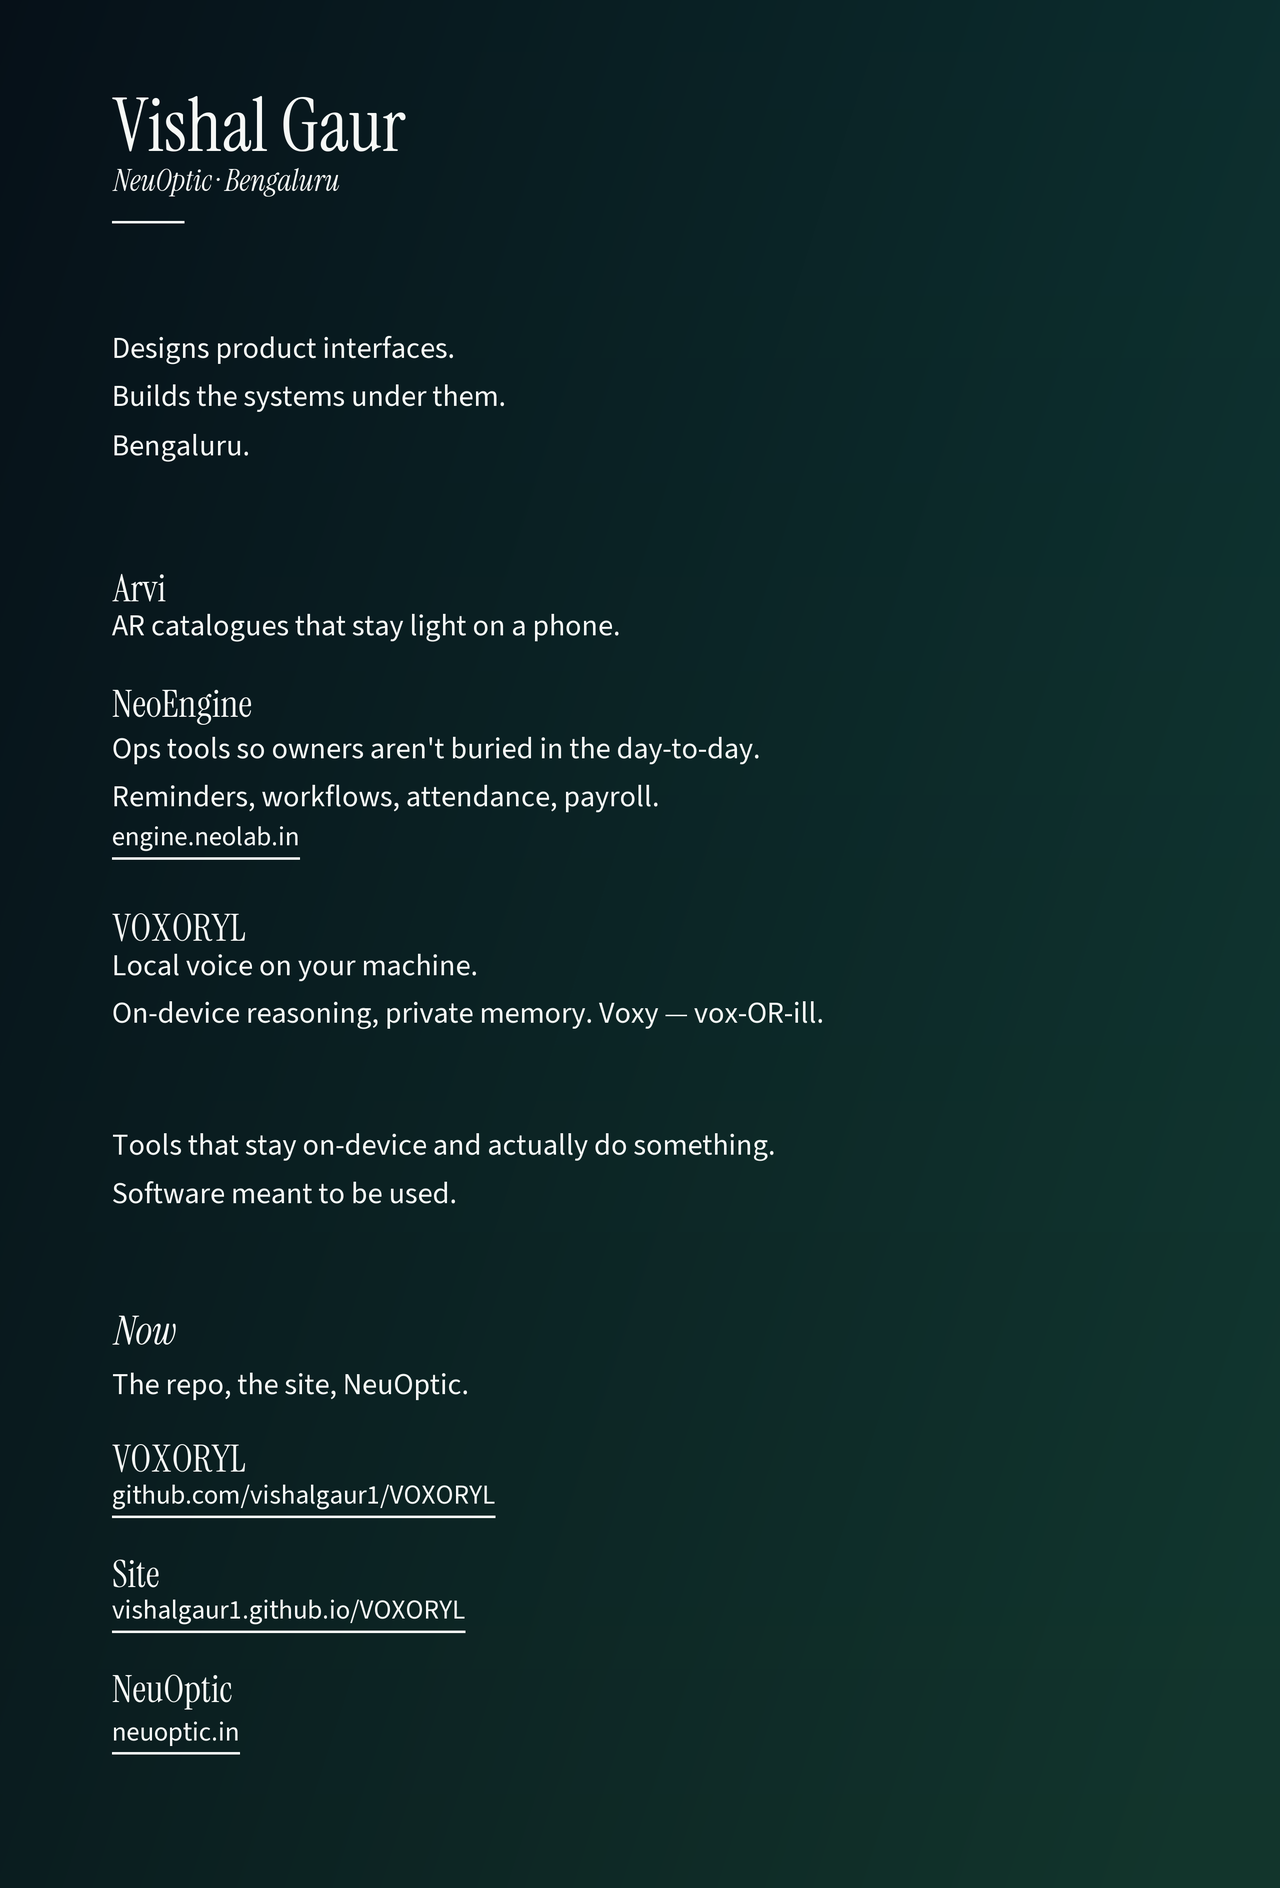
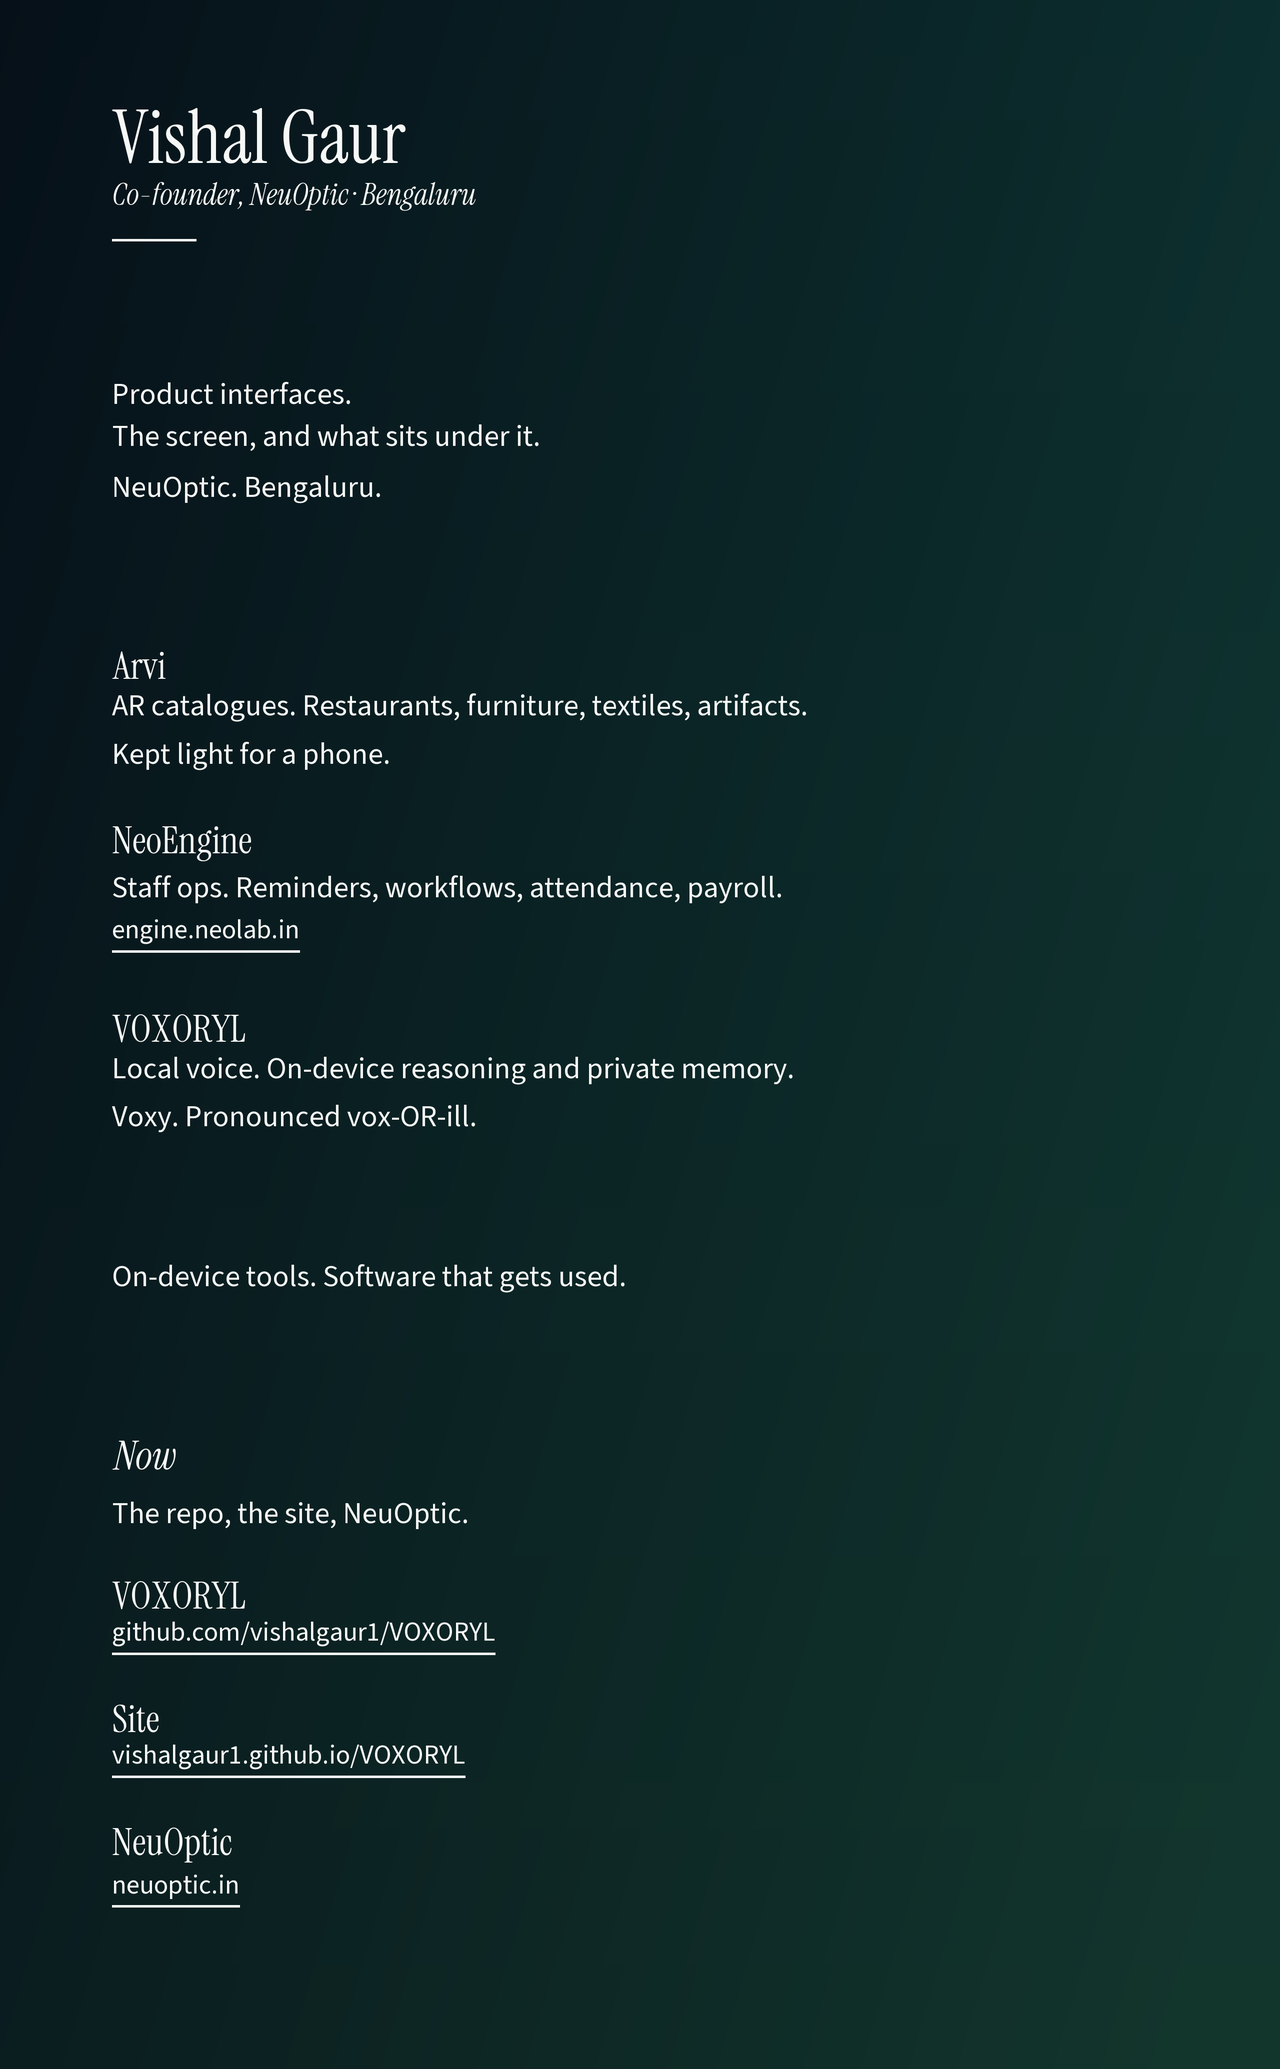
Retune profile bio to understated aura — cut flex lines, keep facts dry.

diff --git a/scripts/compose_profile_assets.py b/scripts/compose_profile_assets.py
@@ -158,24 +158,25 @@ def compose(metrics: ImageDraw.ImageDraw) -> Image.Image:
 
     paragraphs = {
         "who1": [
-            "Designs product interfaces.",
-            "Builds the systems under them.",
+            "Product interfaces.",
+            "The screen, and what sits under it.",
         ],
         "who2": [
-            "Bengaluru.",
+            "NeuOptic. Bengaluru.",
         ],
-        "arvi": "AR catalogues that stay light on a phone.",
+        "arvi": [
+            "AR catalogues. Restaurants, furniture, textiles, artifacts.",
+            "Kept light for a phone.",
+        ],
         "neo": [
-            "Ops tools so owners aren't buried in the day-to-day.",
-            "Reminders, workflows, attendance, payroll.",
+            "Staff ops. Reminders, workflows, attendance, payroll.",
         ],
         "voxy": [
-            "Local voice on your machine.",
-            "On-device reasoning, private memory. Voxy — vox-OR-ill.",
+            "Local voice. On-device reasoning and private memory.",
+            "Voxy. Pronounced vox-OR-ill.",
         ],
         "vis1": [
-            "Tools that stay on-device and actually do something.",
-            "Software meant to be used.",
+            "On-device tools. Software that gets used.",
         ],
         "now": "The repo, the site, NeuOptic.",
     }
@@ -195,39 +196,38 @@ def compose(metrics: ImageDraw.ImageDraw) -> Image.Image:
             print(f"  {key}: {line}")
 
     # (op, payload). Gaps are 1× pixels.
-    # Section gaps tighter than the sparse pass; LINE_GAP carries the breath.
     ops: list[tuple] = [
-        ("gap", 96),
-        ("text", ("Vishal Gaur", name_f, 16)),
-        ("text", ("NeuOptic · Bengaluru", role_f, 24)),
-        ("rule", 72),
-        ("gap", 104),
+        ("gap", 108),
+        ("text", ("Vishal Gaur", name_f, 18)),
+        ("text", ("Co-founder, NeuOptic · Bengaluru", role_f, 28)),
+        ("rule", 84),
+        ("gap", 132),
         ("para", "who1"),
-        ("gap", 22),
+        ("gap", 24),
         ("para", "who2"),
-        ("gap", 112),
-        ("text", ("Arvi", product_f, 12)),
+        ("gap", 148),
+        ("text", ("Arvi", product_f, 14)),
         ("para", "arvi"),
-        ("gap", 48),
-        ("text", ("NeoEngine", product_f, 12)),
+        ("gap", 56),
+        ("text", ("NeoEngine", product_f, 14)),
         ("para", "neo"),
-        ("gap", 14),
+        ("gap", 16),
         ("url", "engine.neolab.in"),
-        ("gap", 48),
-        ("text", ("VOXORYL", product_f, 12)),
+        ("gap", 56),
+        ("text", ("VOXORYL", product_f, 14)),
         ("para", "voxy"),
-        ("gap", 104),
+        ("gap", 132),
         ("para", "vis1"),
-        ("gap", 112),
-        ("text", ("Now", section_f, 28)),
+        ("gap", 148),
+        ("text", ("Now", section_f, 32)),
         ("para", "now"),
-        ("gap", 44),
+        ("gap", 52),
         ("dest", ("VOXORYL", "github.com/vishalgaur1/VOXORYL")),
-        ("gap", 36),
+        ("gap", 44),
         ("dest", ("Site", "vishalgaur1.github.io/VOXORYL")),
-        ("gap", 36),
+        ("gap", 44),
         ("dest", ("NeuOptic", "neuoptic.in")),
-        ("gap", 128),
+        ("gap", 156),
     ]
 
     def text_h(text: str, fnt) -> int:
